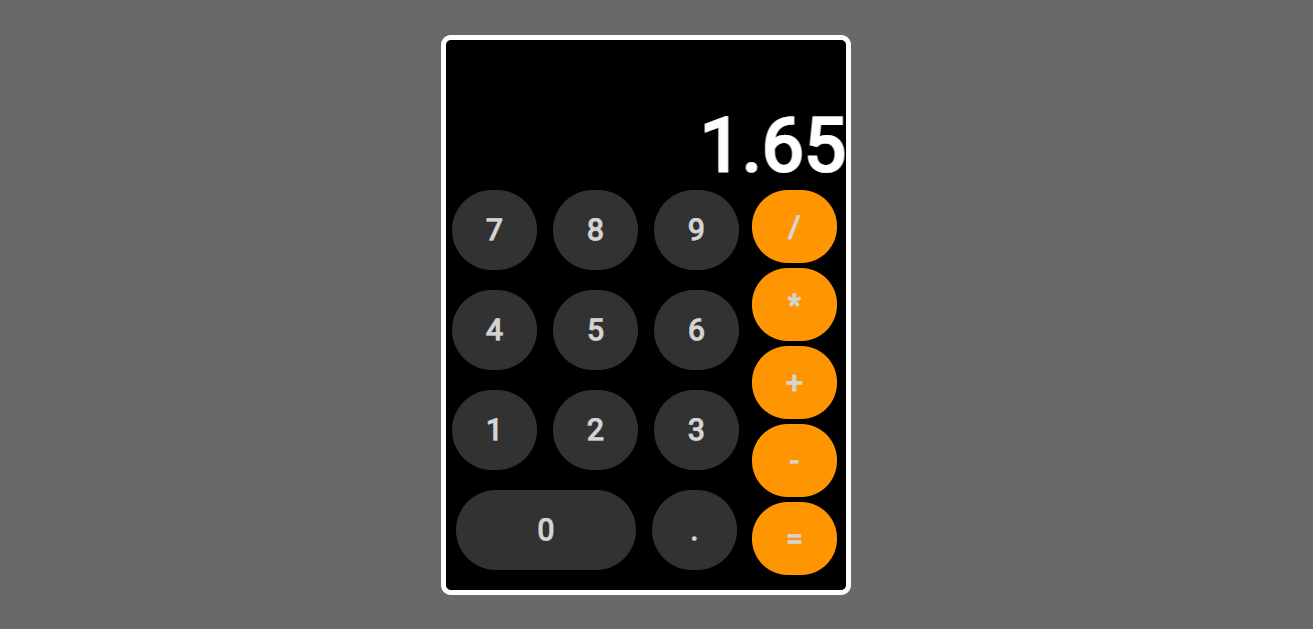
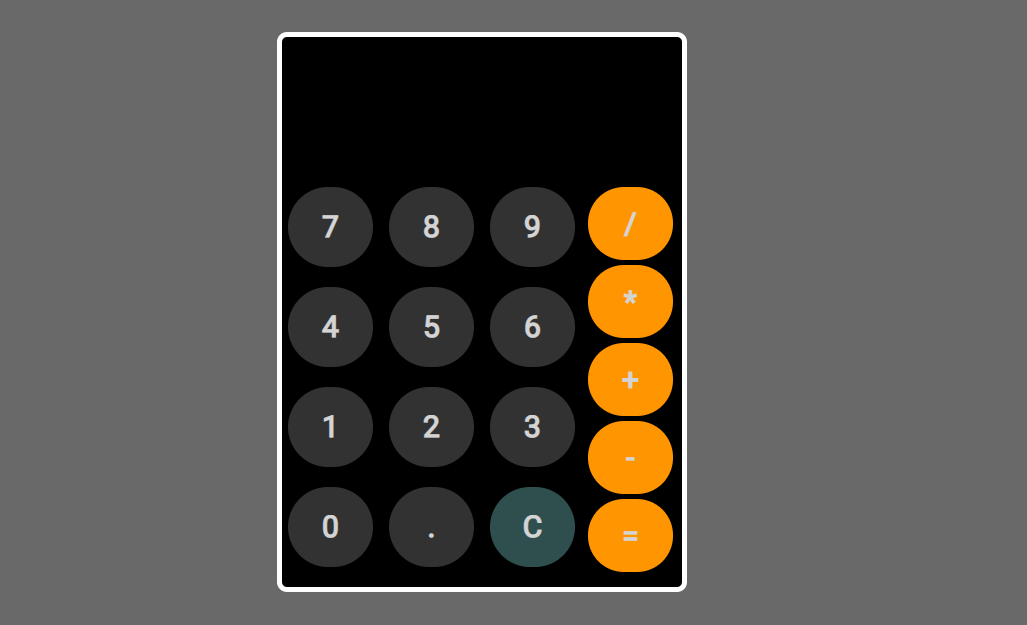
Add Clear Button

Changed region(s): [[0.2493, 0.0304, 0.6855, 0.9728]]

diff --git a/js/index.js b/js/index.js
@@ -5,6 +5,7 @@ const displayOperator = document.querySelector('#operator');
 const operators = document.querySelectorAll('.operator-btn');
 const equalButton = document.querySelector('#equal');
 const displayResult = document.querySelector('#result');
+const clearButton = document.querySelector('.clear-btn');
 let operatorSelected = false;
 
 
@@ -34,6 +35,10 @@ operators.forEach(element=> {
 
     });
 });
+
+clearButton.addEventListener('click', () => {
+    reset();
+})
 
 equal.addEventListener('click', () => {
     if (displayResult.style.display === 'none' || displayResult.style.display === '') {

diff --git a/css/style.css b/css/style.css
@@ -78,7 +78,7 @@ html, body {
     flex-grow: 1;
 }
 
-.number-btn, .operator-btn, #equal {
+.number-btn, .operator-btn, #equal, .clear-btn {
     width: 85px;
     height: 80px;
     margin: 0px 6px ;
@@ -99,10 +99,9 @@ html, body {
     background-color: #444;
 }
 
-#zero {
-    width: calc(90px * 2);
-    margin-right: 6px;
-    margin-left: 10px;
+
+.clear-btn {
+    background-color: darkslategray;
 }
 
 .operators {

diff --git a/index.html b/index.html
@@ -36,6 +36,7 @@
                     <div class="btn-row">
                         <span id="zero" class="number-btn">0</span>
                         <span class="number-btn">.</span>
+                        <span id="clear" class="clear-btn">C</span>
                     </div>
                 </div><!-- numbers -->
                 <aside class="operators">
